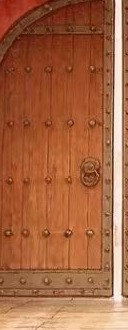
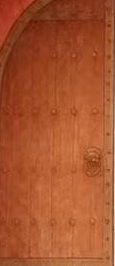
午朝门近景换 9:16 新图，门扇/光晕/热区按新图重排

diff --git a/app.css b/app.css
@@ -3938,19 +3938,19 @@ h1, h2, h3, .intro__title, .act-title h2, .panel__title,
 .gate-photo { position: fixed; inset: 0; z-index: 97; display: grid; place-items: center; background: #1b110b; overflow: hidden; }
 .gate-photo[hidden] { display: none; }
 .gate-photo__bg { position: absolute; inset: -4%; background: url(assets/gate-closeup.jpg) center / cover no-repeat; filter: blur(24px) brightness(.45) saturate(.9); }
-.gate-photo__frame { position: relative; width: min(100vw, calc(100vh * 1706 / 1279)); aspect-ratio: 1706 / 1279; transform-origin: 50% 62%; transition: transform 1.9s cubic-bezier(.4,.05,.2,1); }
+.gate-photo__frame { position: relative; width: min(100vw, calc(100vh * 2047 / 1152)); aspect-ratio: 1152 / 2047; transform-origin: 50% 62%; transition: transform 1.9s cubic-bezier(.4,.05,.2,1); }
 .gate-photo__img { width: 100%; height: 100%; object-fit: contain; display: block; }
-.gate-photo__beyond { position: absolute; left: 42.4%; top: 61.1%; width: 15.8%; height: 25.8%; opacity: 0; z-index: 1; border-radius: 50% 50% 0 0 / 28% 28% 0 0; transition: opacity .25s ease .2s; background: radial-gradient(ellipse at 50% 60%, #f3d39a 0%, #cf9a5c 14%, #8a5233 34%, #4a2616 62%, #23120a 100%); }
-.gate-photo__leaf { position: absolute; top: 61.1%; height: 25.8%; z-index: 2; background-size: 100% 100%; background-repeat: no-repeat; transition: transform 1.7s cubic-bezier(.45,.05,.2,1), box-shadow .6s ease, filter .6s ease, opacity .8s ease .9s; box-shadow: 0 0 16px rgba(0,0,0,.22); will-change: transform; }
-.gate-photo__leaf--left { left: 42.9%; width: 7.5%; background-image: url(assets/gate-door-left.jpg); transform-origin: left center; }
-.gate-photo__leaf--right { left: 50.4%; width: 7.6%; background-image: url(assets/gate-door-right.jpg); transform-origin: right center; }
+.gate-photo__beyond { position: absolute; left: 40.2%; top: 53.4%; width: 19.6%; height: 13.2%; opacity: 0; z-index: 1; border-radius: 50% 50% 0 0 / 28% 28% 0 0; transition: opacity .25s ease .2s; background: radial-gradient(ellipse at 50% 60%, #f3d39a 0%, #cf9a5c 14%, #8a5233 34%, #4a2616 62%, #23120a 100%); }
+.gate-photo__leaf { position: absolute; top: 53.4%; height: 13.2%; z-index: 2; background-size: 100% 100%; background-repeat: no-repeat; transition: transform 1.7s cubic-bezier(.45,.05,.2,1), box-shadow .6s ease, filter .6s ease, opacity .8s ease .9s; box-shadow: 0 0 16px rgba(0,0,0,.22); will-change: transform; }
+.gate-photo__leaf--left { left: 40%; width: 10%; background-image: url(assets/gate-door-left.jpg); transform-origin: left center; }
+.gate-photo__leaf--right { left: 50%; width: 10%; background-image: url(assets/gate-door-right.jpg); transform-origin: right center; }
 .gate-photo.is-opening .gate-photo__leaf--left { transform: scaleX(.08); box-shadow: 6px 3px 14px rgba(0,0,0,.28); filter: brightness(.95); opacity: 0; }
 .gate-photo.is-opening .gate-photo__leaf--right { transform: scaleX(.08); box-shadow: -6px 3px 14px rgba(0,0,0,.28); filter: brightness(.95); opacity: 0; transition-delay: .08s; }
 .gate-photo.is-opening .gate-photo__beyond { opacity: 1; transform: scale(1); }
 .gate-photo__beyond { transform: scale(.94); transition: opacity .9s ease .3s, transform 1.5s ease .2s; }
 .gate-photo.is-opening .gate-photo__hint { opacity: 0; transition: opacity .35s; }
 .gate-photo.is-opening .gate-photo__frame { transform: scale(1.14); }
-.gate-photo__door { position: absolute; left: 40%; top: 58%; width: 20%; height: 33%; z-index: 3; padding: 0; border: 0; border-radius: 8px; background: transparent; cursor: pointer; transition: box-shadow .2s; }
+.gate-photo__door { position: absolute; left: 37%; top: 50.5%; width: 26%; height: 18%; z-index: 3; padding: 0; border: 0; border-radius: 8px; background: transparent; cursor: pointer; transition: box-shadow .2s; }
 .gate-photo__door:hover, .gate-photo__door:focus-visible { outline: none; box-shadow: 0 0 0 2px rgba(255,220,150,.6), 0 0 26px rgba(255,200,120,.35); }
 .gate-photo.is-opening .gate-photo__door { pointer-events: none; }
 .gate-photo__hint { position: absolute; left: 50%; bottom: 2.5%; transform: translateX(-50%); margin: 0; z-index: 4; padding: 6px 16px; border-radius: 999px; background: rgba(35,20,12,.52); color: #ffe9c2; font-size: 13px; letter-spacing: .1em; white-space: nowrap; backdrop-filter: blur(3px); }

diff --git a/index.html b/index.html
@@ -8,7 +8,7 @@
 <title>羲皇寻踪 · 淮阳太昊陵</title>
 <meta name="description" content="从俯瞰太昊陵，到太昊陵前的集市，穿过内街推开午朝门，完成陵庙打卡，领取一张带盖章动画的完赛证书。">
 <link rel="stylesheet" href="tokens.css?v=20261125c">
-<link rel="stylesheet" href="app.css?v=20261125q">
+<link rel="stylesheet" href="app.css?v=20261125r">
 </head>
 <body>
   <button class="global-back" id="globalBack" type="button" aria-label="回到上一步">← 上一步</button>
